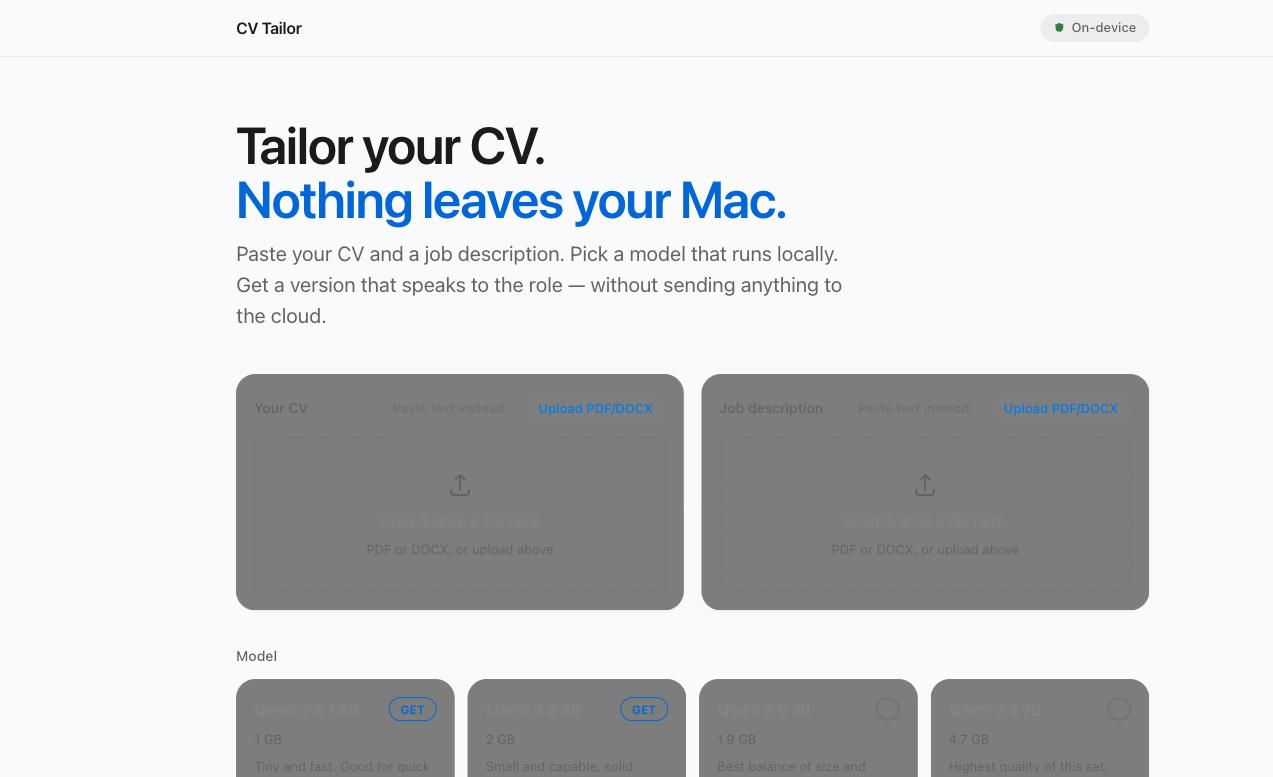
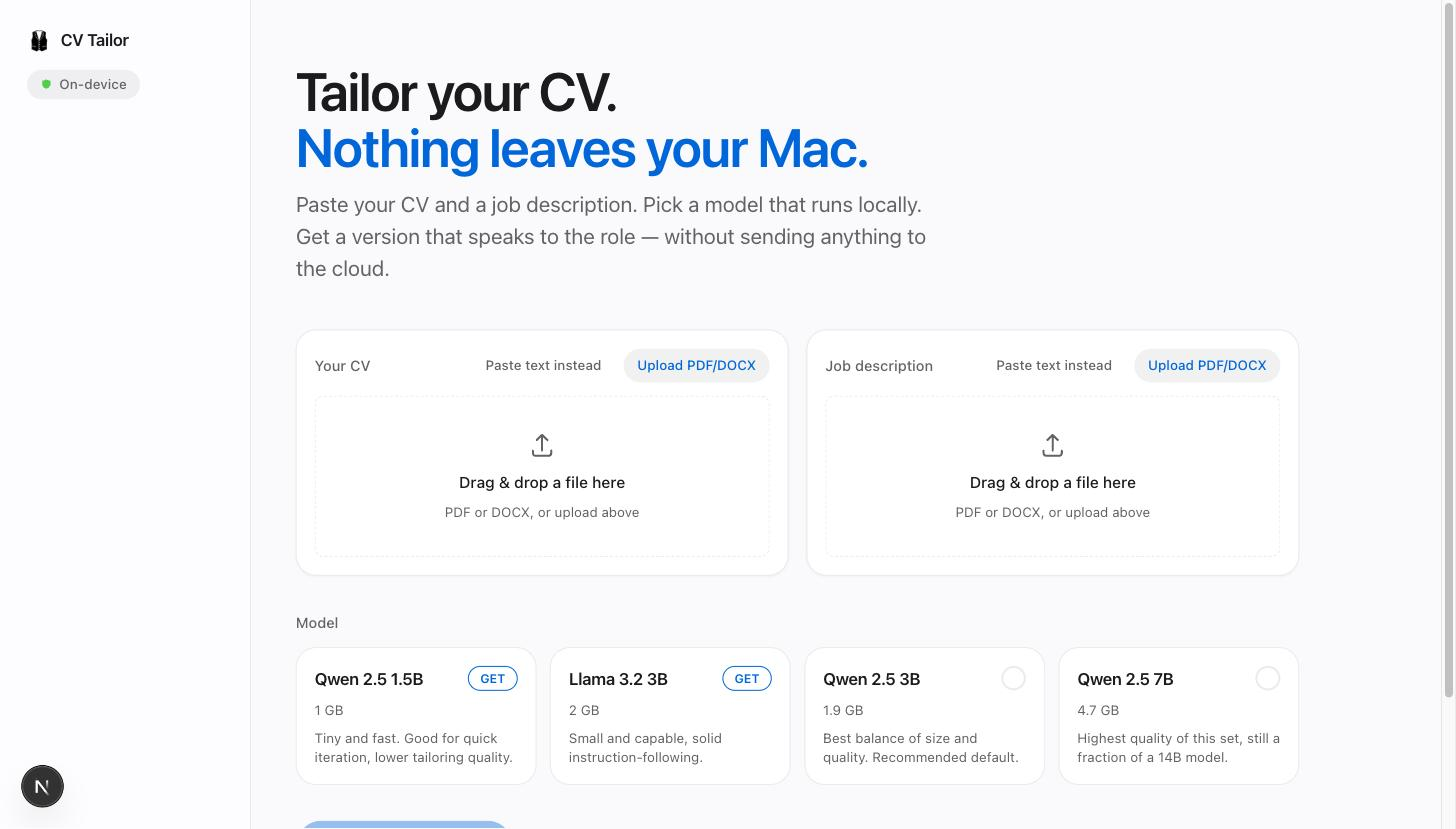
Replace top bar with a sidebar, fix a mobile layout bug it caused
- Moved the app logo + "On-device" badge from a sticky top bar into
  a persistent left sidebar on md+ screens; a compact top bar remains
  on mobile.
- The first pass put the mobile header and <main> as row-flex
  siblings instead of stacking them, so on narrow screens all page
  content got squeezed into a ~48px-wide sliver (text wrapping one
  character per line). Fixed by wrapping header+main in their own
  flex-col container that sits beside the sidebar. Verified via
  computed widths/display at real narrow (445px) and wide (1430px)
  viewports, not just visual inspection.
- Refreshed all three README screenshots against the new layout.

Claude-Session: https://claude.ai/code/session_01Mngo3P2hUKLcYtx7qNYbHx

diff --git a/app/page.tsx b/app/page.tsx
@@ -9,6 +9,44 @@ import { CvSkeleton } from "@/components/CvSkeleton";
 import { GenerationProgress } from "@/components/GenerationProgress";
 import { ExportPanel } from "@/components/ExportPanel";
 
+function Brand() {
+  return (
+    <span className="flex items-center gap-2">
+      {/* eslint-disable-next-line @next/next/no-img-element */}
+      <img
+        src="/icon.png"
+        alt=""
+        width={22}
+        height={22}
+        className="rounded-[5px]"
+      />
+      <span className="text-[15px] font-semibold tracking-tight">
+        CV Tailor
+      </span>
+    </span>
+  );
+}
+
+function OnDeviceBadge() {
+  return (
+    <span className="flex items-center gap-1.5 rounded-full bg-fill-secondary px-3 py-1 text-[12px] font-medium text-text-secondary self-start">
+      <svg
+        width="11"
+        height="11"
+        viewBox="0 0 24 24"
+        fill="none"
+        className="text-success"
+      >
+        <path
+          d="M12 2 4 5v6c0 5 3.5 8.5 8 9 4.5-.5 8-4 8-9V5l-8-3Z"
+          fill="currentColor"
+        />
+      </svg>
+      On-device
+    </span>
+  );
+}
+
 export default function Home() {
   const [cvText, setCvText] = useState("");
   const [jobDescription, setJobDescription] = useState("");
@@ -40,101 +78,94 @@ export default function Home() {
   }
 
   return (
-    <>
-      <header className="sticky top-0 z-10 border-b border-hairline bg-background/70 backdrop-blur-xl">
-        <div className="max-w-4xl mx-auto px-6 h-[52px] flex items-center justify-between">
-          <span className="text-[15px] font-semibold tracking-tight">
-            CV Tailor
-          </span>
-          <span className="flex items-center gap-1.5 rounded-full bg-fill-secondary px-3 py-1 text-[12px] font-medium text-text-secondary">
-            <svg
-              width="11"
-              height="11"
-              viewBox="0 0 24 24"
-              fill="none"
-              className="text-success"
+    <div className="flex min-h-screen w-full">
+      {/* Sidebar — md and up */}
+      <aside className="hidden md:flex md:flex-col md:gap-4 md:w-56 md:shrink-0 md:sticky md:top-0 md:h-screen md:border-r md:border-hairline md:bg-surface/50 md:backdrop-blur-xl md:p-6">
+        <Brand />
+        <OnDeviceBadge />
+      </aside>
+
+      <div className="flex flex-col flex-1 min-w-0">
+        {/* Compact header — mobile only */}
+        <header className="md:hidden sticky top-0 z-10 border-b border-hairline bg-background/70 backdrop-blur-xl">
+          <div className="px-6 h-[52px] flex items-center justify-between">
+            <Brand />
+            <OnDeviceBadge />
+          </div>
+        </header>
+
+        <main className="flex-1 min-w-0 px-6 md:px-10 pb-24">
+          <div className="max-w-4xl pt-14 pb-10">
+            <h1 className="text-[40px] sm:text-[48px] font-semibold tracking-tight leading-[1.05]">
+              Tailor your CV.
+              <br />
+              <span className="text-accent">Nothing leaves your Mac.</span>
+            </h1>
+            <p className="mt-3 text-[19px] text-text-secondary max-w-xl">
+              Paste your CV and a job description. Pick a model that runs
+              locally. Get a version that speaks to the role — without sending
+              anything to the cloud.
+            </p>
+          </div>
+
+          <section className="max-w-4xl grid md:grid-cols-2 gap-4">
+            <FileTextInput
+              label="Your CV"
+              value={cvText}
+              onChange={setCvText}
+              placeholder="Paste your CV text, or upload a PDF/DOCX above"
+            />
+            <FileTextInput
+              label="Job description"
+              value={jobDescription}
+              onChange={setJobDescription}
+              placeholder="Paste the job description text, or upload a PDF/DOCX above"
+            />
+          </section>
+
+          <section className="max-w-4xl mt-8">
+            <ModelPicker selected={model} onSelect={setModel} />
+          </section>
+
+          <section className="max-w-4xl mt-8 flex items-center gap-4">
+            <button
+              type="button"
+              onClick={handleGenerate}
+              disabled={!canGenerate}
+              className="rounded-full bg-accent hover:bg-accent-hover active:bg-accent-active active:scale-[0.97] text-white px-6 py-3 text-[15px] font-medium transition disabled:opacity-40 disabled:pointer-events-none"
             >
-              <path
-                d="M12 2 4 5v6c0 5 3.5 8.5 8 9 4.5-.5 8-4 8-9V5l-8-3Z"
-                fill="currentColor"
-              />
-            </svg>
-            On-device
-          </span>
-        </div>
-      </header>
-
-      <main className="flex-1 max-w-4xl mx-auto w-full px-6 pb-24">
-        <div className="pt-14 pb-10">
-          <h1 className="text-[40px] sm:text-[48px] font-semibold tracking-tight leading-[1.05]">
-            Tailor your CV.
-            <br />
-            <span className="text-accent">Nothing leaves your Mac.</span>
-          </h1>
-          <p className="mt-3 text-[19px] text-text-secondary max-w-xl">
-            Paste your CV and a job description. Pick a model that runs locally.
-            Get a version that speaks to the role — without sending anything to
-            the cloud.
-          </p>
-        </div>
-
-        <section className="grid md:grid-cols-2 gap-4">
-          <FileTextInput
-            label="Your CV"
-            value={cvText}
-            onChange={setCvText}
-            placeholder="Paste your CV text, or upload a PDF/DOCX above"
-          />
-          <FileTextInput
-            label="Job description"
-            value={jobDescription}
-            onChange={setJobDescription}
-            placeholder="Paste the job description text, or upload a PDF/DOCX above"
-          />
-        </section>
-
-        <section className="mt-8">
-          <ModelPicker selected={model} onSelect={setModel} />
-        </section>
-
-        <section className="mt-8 flex items-center gap-4">
-          <button
-            type="button"
-            onClick={handleGenerate}
-            disabled={!canGenerate}
-            className="rounded-full bg-accent hover:bg-accent-hover active:bg-accent-active active:scale-[0.97] text-white px-6 py-3 text-[15px] font-medium transition disabled:opacity-40 disabled:pointer-events-none"
-          >
-            {generating ? "Generating…" : "Generate tailored CV"}
-          </button>
-          {error && <p className="text-[13px] text-red-600">{error}</p>}
-        </section>
-
-        {generating && (
-          <section className="mt-16 pt-10 border-t border-hairline">
-            <h2 className="text-[22px] font-semibold tracking-tight mb-5">
-              Preview
-            </h2>
-            <GenerationProgress active={generating} />
-            <div className="mt-4 rounded-[var(--radius-card)] bg-surface border border-hairline shadow-[0_1px_2px_rgba(0,0,0,0.04),0_12px_28px_rgba(0,0,0,0.06)] p-8 sm:p-10">
-              <CvSkeleton />
-            </div>
+              {generating ? "Generating…" : "Generate tailored CV"}
+            </button>
+            {error && <p className="text-[13px] text-red-600">{error}</p>}
           </section>
-        )}
 
-        {!generating && cv && (
-          <section className="mt-16 pt-10 border-t border-hairline reveal">
-            <h2 className="text-[22px] font-semibold tracking-tight mb-5">
-              Preview
-            </h2>
-            <div className="mx-auto max-w-2xl rounded-[var(--radius-card)] bg-surface border border-hairline shadow-[0_1px_2px_rgba(0,0,0,0.04),0_20px_40px_rgba(0,0,0,0.08)] p-8 sm:p-12">
-              <CvPreview cv={cv} />
-            </div>
-            <div className="mt-6">
-              <ExportPanel cv={cv} />
-            </div>
-          </section>
-        )}
-      </main>
-    </>
+          {generating && (
+            <section className="max-w-4xl mt-16 pt-10 border-t border-hairline">
+              <h2 className="text-[22px] font-semibold tracking-tight mb-5">
+                Preview
+              </h2>
+              <GenerationProgress active={generating} />
+              <div className="mt-4 rounded-[var(--radius-card)] bg-surface border border-hairline shadow-[0_1px_2px_rgba(0,0,0,0.04),0_12px_28px_rgba(0,0,0,0.06)] p-8 sm:p-10">
+                <CvSkeleton />
+              </div>
+            </section>
+          )}
+
+          {!generating && cv && (
+            <section className="max-w-4xl mt-16 pt-10 border-t border-hairline reveal">
+              <h2 className="text-[22px] font-semibold tracking-tight mb-5">
+                Preview
+              </h2>
+              <div className="max-w-2xl rounded-[var(--radius-card)] bg-surface border border-hairline shadow-[0_1px_2px_rgba(0,0,0,0.04),0_20px_40px_rgba(0,0,0,0.08)] p-8 sm:p-12">
+                <CvPreview cv={cv} />
+              </div>
+              <div className="mt-6">
+                <ExportPanel cv={cv} />
+              </div>
+            </section>
+          )}
+        </main>
+      </div>
+    </div>
   );
 }

diff --git a/CHANGELOG.md b/CHANGELOG.md
@@ -17,10 +17,13 @@ The format is based on [Keep a Changelog](https://keepachangelog.com/en/1.1.0/).
 
 - Swapped the curated model list for smaller options: Qwen 2.5 1.5B/3B/7B and Llama 3.2 3B (1GB–4.7GB), replacing Llama 3.1 8B, Mistral 7B, and Qwen 2.5 14B (4.4GB–9GB).
 - Shrunk the CV/JD input boxes by 40%.
+- Replaced the top bar with a persistent left sidebar (logo, "On-device" badge) on wider screens; a compact top bar remains on mobile.
 
 ### Fixed
 
 - Smaller models (first observed with Qwen 2.5 3B) would occasionally invent a contact link (e.g. a LinkedIn URL) not present in the source CV, or concatenate the company name into the `role` field. The prompt now explicitly forbids inventing contact details and requires each field to hold only what it's for.
+- The page never declared `color-scheme`, so some browsers layered their own automatic dark theming on top of the app's own dark-mode CSS, rendering cards as a muddy half-inverted gray. Added `color-scheme: light dark`.
+- The initial sidebar implementation put the mobile header and main content as flex siblings in a row instead of stacking them, squeezing all page content into a ~48px sliver on narrow screens. Fixed by wrapping them in their own column.
 
 ## [0.1.0] - 2026-09-01
 
